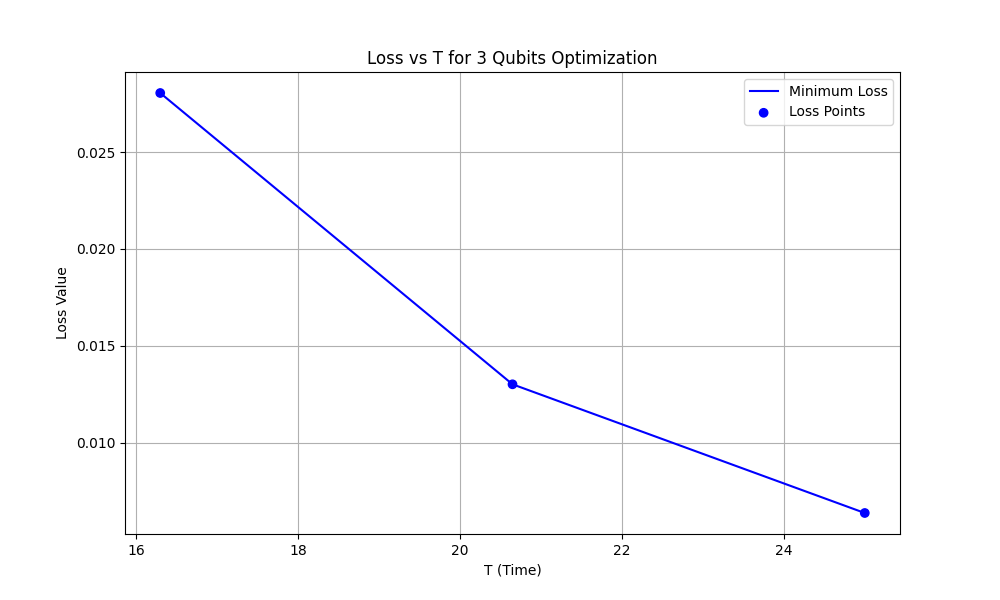
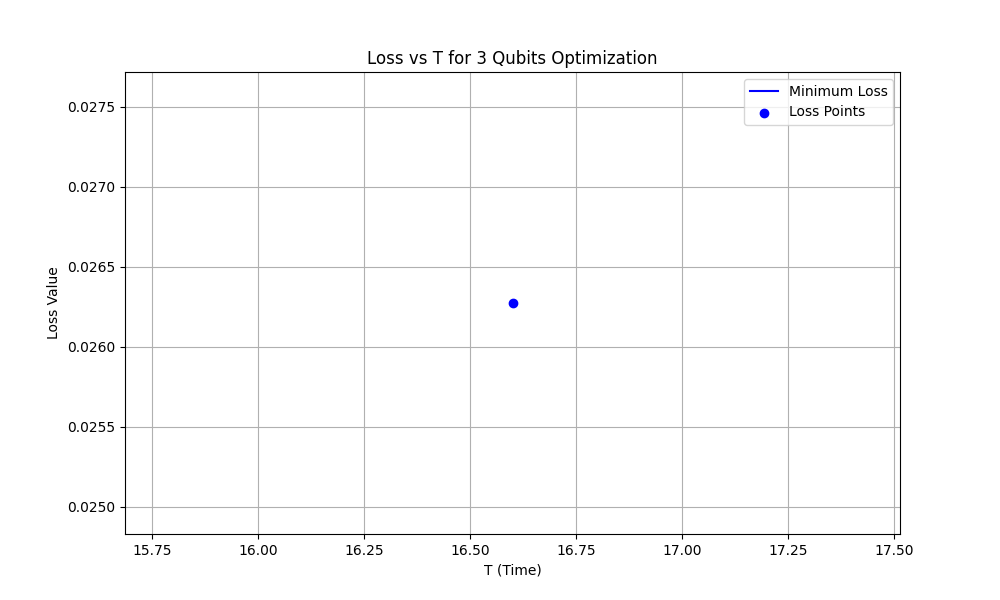
more attempts to make it converge

diff --git a/modules/Optimization_3_qubits.py b/modules/Optimization_3_qubits.py
@@ -159,50 +159,72 @@ def optimize_for_T(T, model, psi_in,tol_loss=1e-6, tol_grad=1e-6,
     print(f"  Final Loss: {final_loss:.4f}, Theta end: {model.theta.item():.4f}")
     return final_loss, model.theta.item(), model.phi.detach().cpu().numpy(),convergence,convergence
 
-def deep_optimize_for_T(T, model, psi_in, lr=1e-3, max_iter=20000, tol=1e-10):
+
+def deep_optimize_for_T(
+    T,
+    model,
+    psi_in,
+    num_starts=5,
+    lr_stage1=1e-3,
+    lr_stage2=1e-5,
+    max_iter_stage1=8000,
+    max_iter_stage2=4000,
+    tol=1e-10
+):
     """
-    高精度优化：AdamW + CosineAnnealingLR
-    - 自动调整学习率
-    - 精度目标：loss <= 1e-10
+    多起点 + 两阶段优化，返回最佳loss, theta, phi, 收敛状态
     """
-    # 转换为高精度
-    model.theta = nn.Parameter(model.theta.data.to(torch.float64))
-    model.phi = nn.Parameter(model.phi.data.to(torch.float64))
+    best_loss = float('inf')
+    best_theta, best_phi = None, None
+    convergence = 0
 
-    # AdamW 优化器
-    optimizer = torch.optim.AdamW(model.parameters(), lr=lr, weight_decay=1e-4)
+    for start_idx in range(num_starts):
+        # 重新随机初始化当前传入模型的参数
+        with torch.no_grad():
+            model.theta.copy_(torch.rand(1, device=device) * 2 * np.pi)
+            model.phi.copy_(torch.rand(model.N, device=device) * 2 * np.pi)
 
-    # Cosine Annealing 学习率调度
-    scheduler = torch.optim.lr_scheduler.CosineAnnealingLR(optimizer, T_max=max_iter, eta_min=1e-6)
+        # 转为高精度
+        model.theta = nn.Parameter(model.theta.data.to(torch.float64))
+        model.phi = nn.Parameter(model.phi.data.to(torch.float64))
 
-    # 初始 loss
-    init_loss = model.loss(T, psi_in).item()
-    print(f"  [AdamW + CosineAnnealing] Init Loss: {init_loss:.6e}, Theta: {model.theta.item():.4f}")
+        # -------- 阶段1：AdamW + CosineAnnealing 粗优化 --------
+        optimizer = optim.AdamW(model.parameters(), lr=lr_stage1)
+        scheduler = optim.lr_scheduler.CosineAnnealingLR(optimizer, T_max=max_iter_stage1)
 
-    # 训练循环
-    for i in range(max_iter):
-        optimizer.zero_grad()
-        loss = model.loss(T, psi_in)
-        loss.backward()
+        for i in range(max_iter_stage1):
+            optimizer.zero_grad()
+            loss = model.loss(T, psi_in)
+            loss.backward()
+            optimizer.step()
+            scheduler.step()
+            if i % 1000 == 0:
+                print("    AdamW + CosineAnnealing Iter", i, "Loss:", loss.item(), "Theta:", model.theta.item(), "Grad_norm:", torch.norm(torch.cat([p.grad.flatten() for p in model.parameters()])))
 
-        # 梯度范数（收敛判定用）
-        grad_norm = torch.nn.utils.clip_grad_norm_(model.parameters(), max_norm=1e6).item()
+        # -------- 阶段2：低 lr 微调 --------
+        optimizer = optim.AdamW(model.parameters(), lr=lr_stage2)
+        for i in range(max_iter_stage2):
+            optimizer.zero_grad()
+            loss = model.loss(T, psi_in)
+            loss.backward()
+            optimizer.step()
+            if i % 1000 == 0:
+                print("    Fine-tuning Iter", i, "Loss:", loss.item(), "Theta:", model.theta.item(), "Grad_norm:", torch.norm(torch.cat([p.grad.flatten() for p in model.parameters()])))
 
-        optimizer.step()
-        scheduler.step()
-
-        # 打印进度
-        if i % 1000 == 0 or loss.item() < tol:
-            print(f"    Iter {i}, loss={loss.item():.3e}, grad_norm={grad_norm:.3e}, lr={scheduler.get_last_lr()[0]:.2e}")
+        # 检查是否为当前最佳
+        final_loss = loss.item()
+        if final_loss < best_loss:
+            best_loss = final_loss
+            best_theta = model.theta.item()
+            best_phi = model.phi.detach().cpu().numpy()
 
         # 收敛判定
-        if loss.item() < tol or grad_norm < 1e-12:
-            print(f"Converged at iter {i} with loss={loss.item():.3e}")
-            return loss.item(), model.theta.item(), model.phi.detach().cpu().numpy()
+        if best_loss < tol:
+            convergence = 1
+            break
 
-    # 未收敛情况
-    print(f"Warning: Did not reach target precision (final loss={loss.item():.3e})")
-    return loss.item(), model.theta.item(), model.phi.detach().cpu().numpy()
+    return best_loss, best_theta, best_phi, convergence
+
 
 
 if __name__ == "__main__":

diff --git a/T=163to165_3qubits.py b/T=163to165_3qubits.py
@@ -14,7 +14,7 @@ else:
 
 script_dir = os.path.dirname(os.path.abspath(__file__)) 
 time_start = time.time()
-T_list = np.linspace(16.3, 30.0, 3)  # T values from 0.01 to 10.0
+T_list = np.linspace(16.6, 16.6, 1)  # T values from 0.01 to 10.0
 psi_in = torch.tensor([1, 0, 1, 0, 1, 0], dtype=torch.complex128, device=device)
 
 
